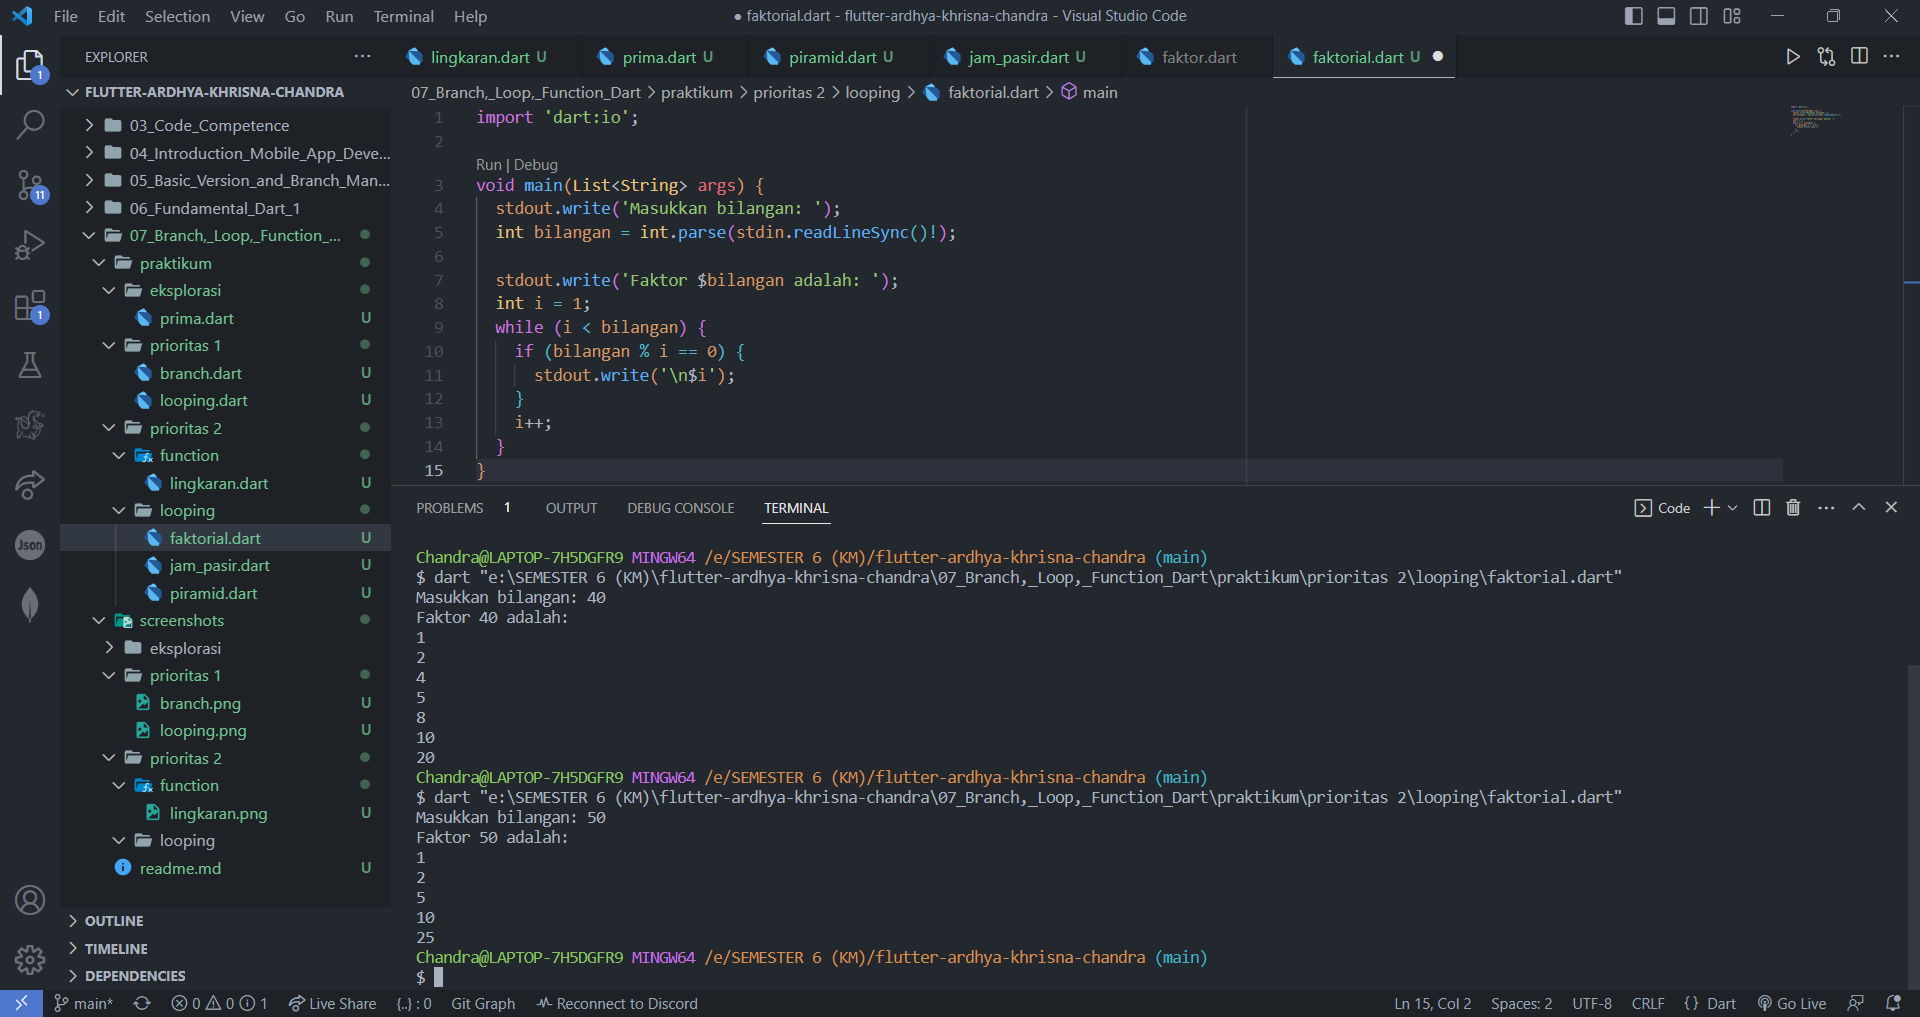
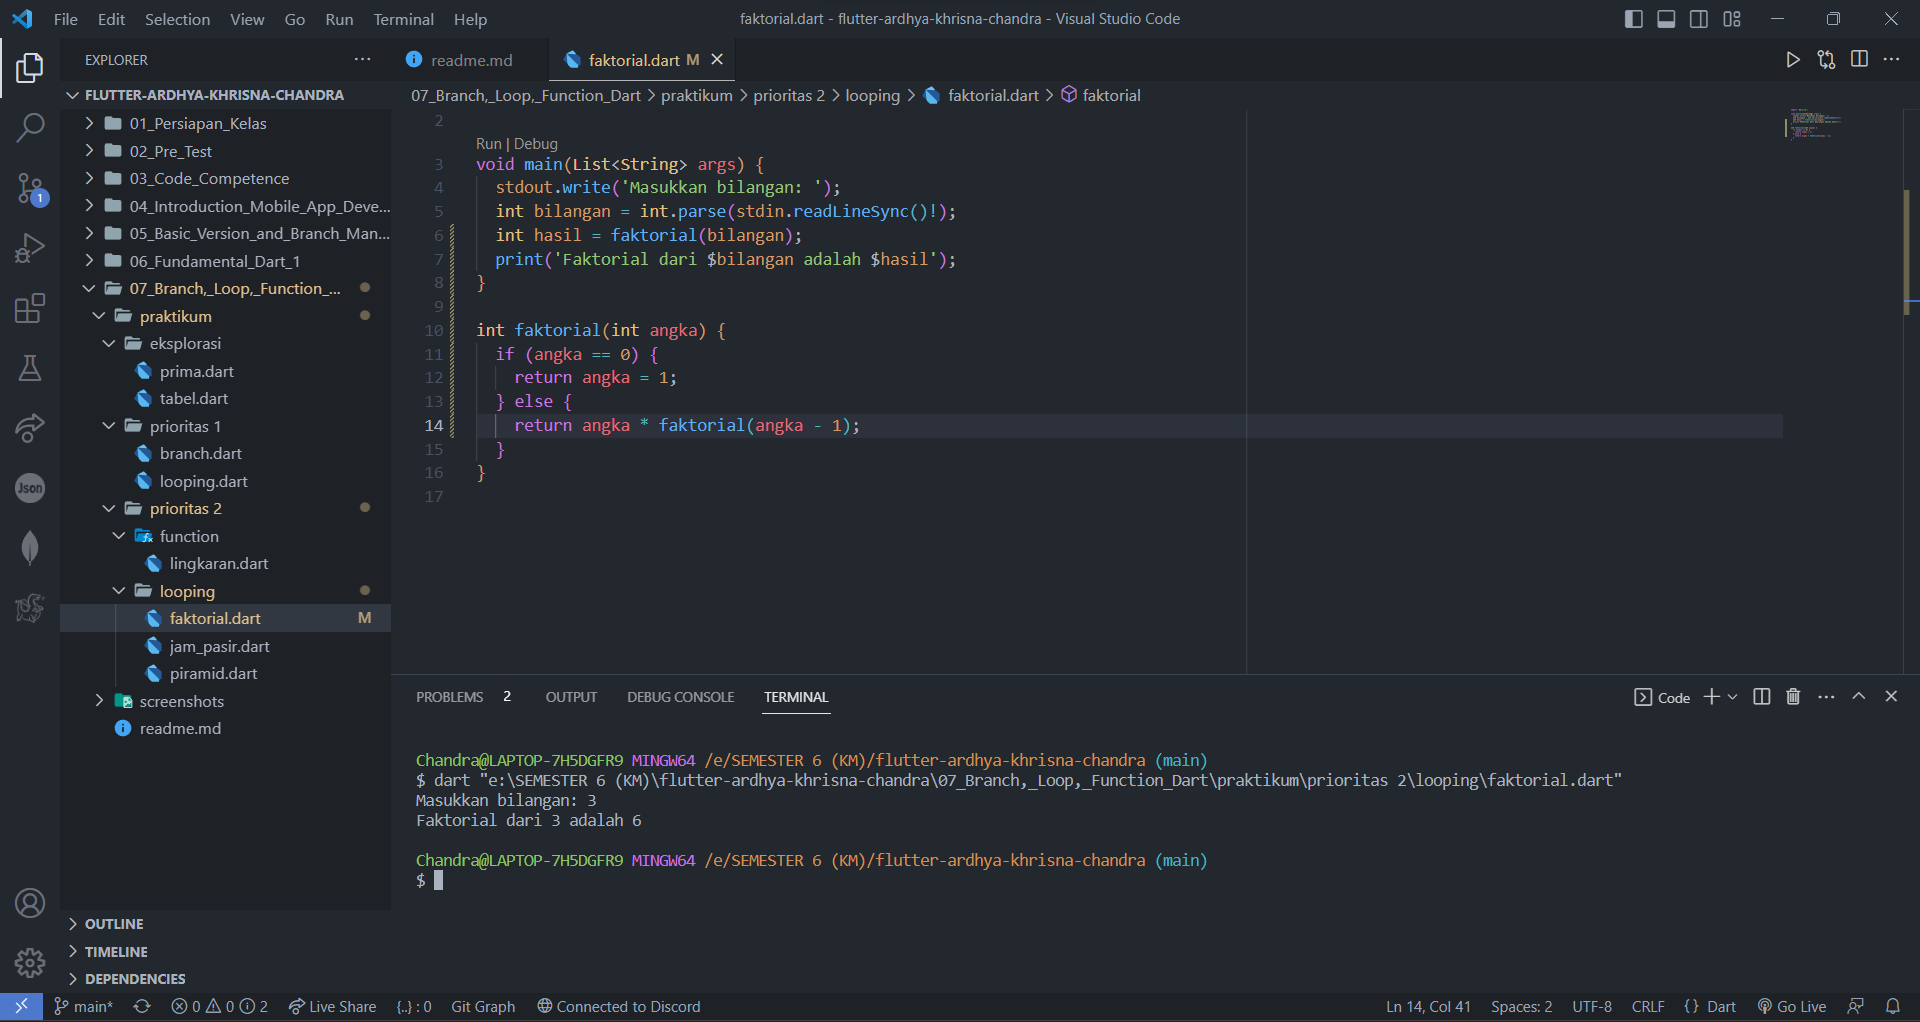
init Tugas 7

diff --git a/07_Branch,_Loop,_Function_Dart/praktikum/prioritas 2/looping/faktorial.dart b/07_Branch,_Loop,_Function_Dart/praktikum/prioritas 2/looping/faktorial.dart
@@ -3,13 +3,14 @@ import 'dart:io';
 void main(List<String> args) {
   stdout.write('Masukkan bilangan: ');
   int bilangan = int.parse(stdin.readLineSync()!);
+  int hasil = faktorial(bilangan);
+  print('Faktorial dari $bilangan adalah $hasil');
+}
 
-  stdout.write('Faktor $bilangan adalah: ');
-  int i = 1;
-  while (i < bilangan) {
-    if (bilangan % i == 0) {
-      stdout.write('\n$i');
-    }
-    i++;
+int faktorial(int angka) {
+  if (angka == 0) {
+    return angka = 1;
+  } else {
+    return angka * faktorial(angka - 1);
   }
 }
